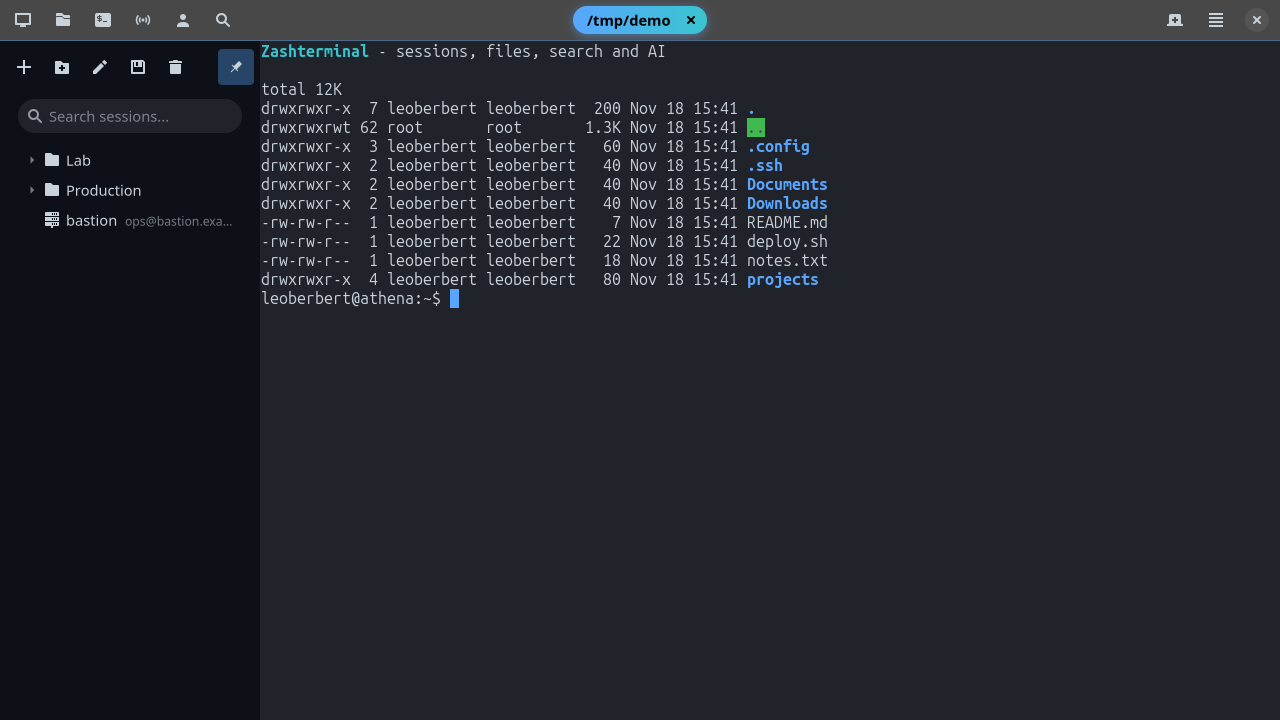
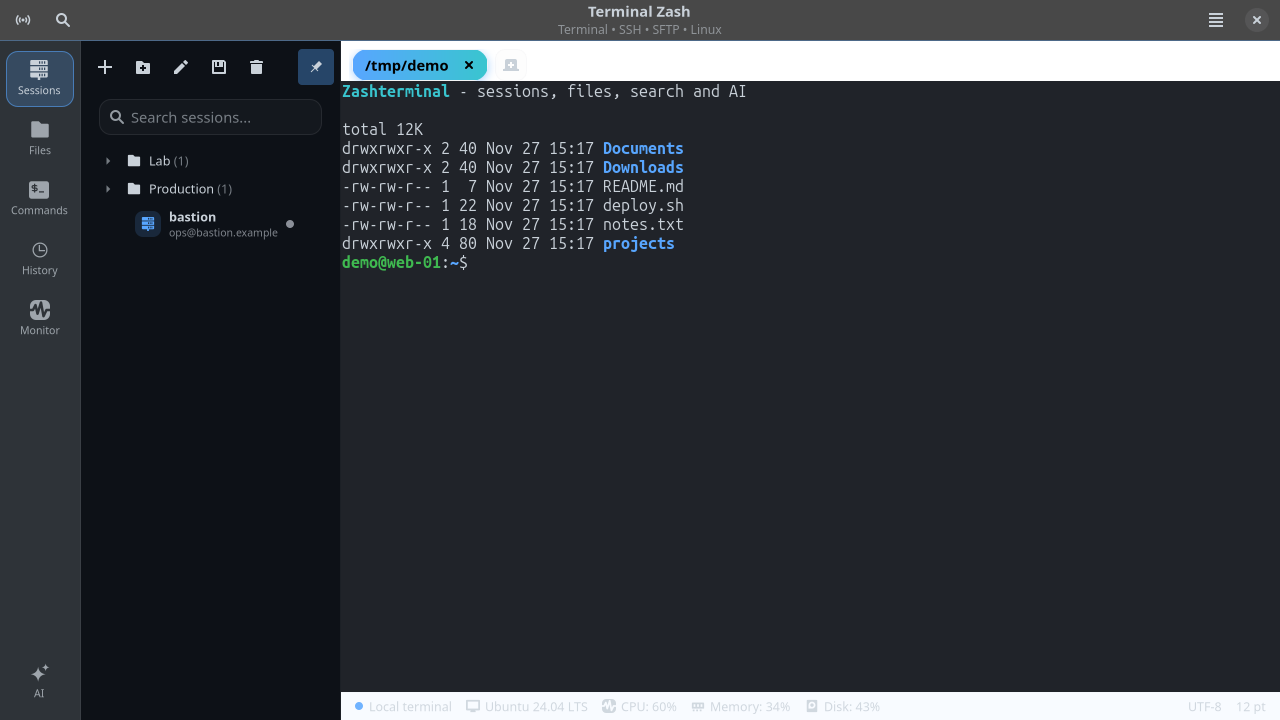
docs: refresh gallery and README for the new visual
- Regenerated docs/gallery; new shots: monitor panel, monitor window, history.
- Gallery uses fictional demo metrics, history and a neutral prompt (no real
  user, hostname, CPU or processes in screenshots).
- README: activity rail, status bar/Monitor, history, AI providers, Esc.
- StatusController stays idle after shutdown (no poller restart, no evaluation).

Changed region(s): [[0.0, 0.0, 1.0, 1.0], [0.25, 0.9472, 1.0, 1.0], [0.0625, 0.0, 0.0938, 0.0306]]

diff --git a/scripts/capture_gallery.py b/scripts/capture_gallery.py
@@ -59,6 +59,30 @@ def capture_widget(widget, path: Path) -> None:
     print(f"wrote {path.name} ({path.stat().st_size} bytes, {width}x{height})")
 
 
+def seed_history(config_dir: Path) -> None:
+    """A few recent connections for the History panel screenshot."""
+    now = time.time()
+    entries = [
+        ("prod-api", "api.prod.example", "ssh", 120, 14),
+        ("SFTP-prod-api", "api.prod.example", "sftp", 3_600, 3),
+        ("lab-db", "db.lab.local", "ssh", 7_200, 6),
+        ("Local", "", "local", 86_400, 22),
+        ("bastion", "bastion.example", "ssh", 3 * 86_400, 2),
+    ]
+    app_dir = config_dir / "zashterminal"
+    app_dir.mkdir(parents=True, exist_ok=True)
+    (app_dir / "connection_history.json").write_text(
+        json.dumps(
+            [
+                {"session_name": n, "host": h, "kind": k, "last_used": now - age, "count": c}
+                for n, h, k, age, c in entries
+            ],
+            indent=2,
+        ),
+        encoding="utf-8",
+    )
+
+
 def seed_sessions(config_dir: Path) -> None:
     payload = {
         "sessions": [
@@ -106,10 +130,74 @@ def seed_sessions(config_dir: Path) -> None:
     (app_dir / "sessions.json").write_text(json.dumps(payload, indent=2), encoding="utf-8")
 
 
+def demo_metrics(step: int):
+    """Deterministic, fictional host metrics for screenshots."""
+    import math
+
+    from zashterminal.utils.system_metrics import DiskInfo, ProcInfo, SystemMetrics
+
+    wave = math.sin(step / 3.0)
+    return SystemMetrics(
+        os_name="Ubuntu 24.04 LTS",
+        kernel="6.8.0-45-generic",
+        arch="x86_64",
+        hostname="web-01",
+        cpu_model="AMD EPYC 7763 64-Core Processor",
+        cores=8,
+        cpu_percent=32 + 18 * wave + (step % 5) * 3,
+        mem_used=int(5.4 * 2**30),
+        mem_total=16 * 2**30,
+        swap_used=0,
+        swap_total=4 * 2**30,
+        disk_percent=43.0,
+        disk_mount="/",
+        uptime_seconds=1_067_220,
+        load=(0.82, 0.64, 0.51),
+        latency_ms=None,
+        net_rx_bps=180_000 + 90_000 * wave,
+        net_tx_bps=40_000 + 25_000 * math.cos(step / 2.0),
+        core_percents=tuple(20 + (i * 9 + step * 7) % 60 for i in range(8)),
+        disks=(
+            DiskInfo("/", 43.0, 100 * 2**30),
+            DiskInfo("/var/lib/docker", 71.0, 200 * 2**30),
+            DiskInfo("/boot", 18.0, 2**30),
+        ),
+        procs_total=214,
+        top_cpu=(
+            ProcInfo("nginx", 12.4, 1.2),
+            ProcInfo("python3", 8.1, 4.6),
+            ProcInfo("postgres", 5.3, 9.8),
+            ProcInfo("node", 2.2, 3.1),
+            ProcInfo("sshd", 0.4, 0.1),
+        ),
+        top_mem=(
+            ProcInfo("postgres", 5.3, 9.8),
+            ProcInfo("python3", 8.1, 4.6),
+            ProcInfo("node", 2.2, 3.1),
+            ProcInfo("redis-server", 0.9, 2.4),
+            ProcInfo("nginx", 12.4, 1.2),
+        ),
+    )
+
+
+def show_demo_metrics(window, terminal) -> None:
+    """Stop live collection and fill the status bar and monitor with demo data."""
+    window.status_controller.shutdown()
+    panel = window.ui_builder.monitor_panel
+    panel.set_terminal(getattr(terminal, "terminal_id", None))
+    panel.set_title("web-01")
+    for step in range(45):
+        metrics = demo_metrics(step)
+        panel.set_metrics(metrics)
+    window.ui_builder.status_bar.set_metrics(metrics)
+
+
 def seed_home(home: Path) -> None:
     for d in ("projects/api", "projects/infra", "Documents", "Downloads", ".ssh"):
         (home / d).mkdir(parents=True, exist_ok=True)
     (home / "README.md").write_text("# demo\n", encoding="utf-8")
+    # Neutral prompt in every shell/pane (no real user or host name in shots)
+    (home / ".bashrc").write_text("PS1='\\[\\e[1;32m\\]demo@web-01\\[\\e[0m\\]:\\[\\e[1;34m\\]\\w\\[\\e[0m\\]$ '\n", encoding="utf-8")
     (home / "deploy.sh").write_text("#!/bin/sh\necho deploy\n", encoding="utf-8")
     (home / "notes.txt").write_text("todo: rotate keys\n", encoding="utf-8")
     (home / "projects/api/main.py").write_text("print('ok')\n", encoding="utf-8")
@@ -127,6 +215,7 @@ def main() -> int:
     with tempfile.TemporaryDirectory(prefix="zash-gallery-") as tmp:
         config_home = Path(tmp)
         seed_sessions(config_home)
+        seed_history(config_home)
         os.environ["XDG_CONFIG_HOME"] = str(config_home)
         os.environ["XDG_CACHE_HOME"] = str(config_home / "cache")
         # Isolated HOME: no real ~/.ssh/config hosts or personal files in shots.
@@ -195,7 +284,7 @@ def main() -> int:
                     (
                         "clear; printf '\\033[1;36mZashterminal\\033[0m "
                         "- sessions, files, search and AI\\n\\n'; "
-                        "ls --color=always -lah\n"
+                        "ls --color=always -lhgo\n"
                     ).encode()
                 )
                 pump(1.0)
@@ -204,6 +293,10 @@ def main() -> int:
                 window.refresh_tree()
             except Exception:
                 pass
+
+            # Demo metrics instead of this machine's (hostname, CPU, processes)
+            show_demo_metrics(window, terminal)
+            pump(0.3)
 
             capture_widget(window, OUT / "01-main-terminal.png")
 
@@ -226,7 +319,7 @@ def main() -> int:
 
 
             if terminal:
-                terminal.feed_child(b"ls --color=always -lah\n")
+                terminal.feed_child(b"ls --color=always -lhgo\n")
                 pump(0.6)
 
             if terminal:
@@ -342,11 +435,28 @@ def main() -> int:
                     print(f"command manager skipped: {exc}")
 
                 try:
-                    window.split_view.set_show_sidebar(True)
+                    window.ui_builder._on_rail_page_toggled("sessions", True)
                     pump(0.3)
                     capture_widget(window, OUT / "13-sessions-sidebar.png")
                 except Exception as exc:
                     print(f"sidebar skipped: {exc}")
+
+                try:
+                    ui = window.ui_builder
+                    ui._on_rail_page_toggled("monitor", True)
+                    pump(0.5)
+                    capture_widget(window, OUT / "15-monitor-panel.png")
+                    ui.monitor_panel._on_expand_clicked(None)
+                    pump(0.8)
+                    monitor_window = ui.monitor_panel._window
+                    capture_widget(monitor_window, OUT / "16-monitor-window.png")
+                    monitor_window.close()
+                    pump(0.2)
+                    ui._on_rail_page_toggled("history", True)
+                    pump(0.4)
+                    capture_widget(window, OUT / "17-history.png")
+                except Exception as exc:
+                    print(f"monitor skipped: {exc}")
             except Exception:
                 traceback.print_exc()
             finally:

diff --git a/src/zashterminal/ui/status_controller.py b/src/zashterminal/ui/status_controller.py
@@ -70,6 +70,7 @@ class StatusController:
         self._sync_poller()
 
     def shutdown(self) -> None:
+        self._shut_down = True
         if self._tick_id:
             GLib.source_remove(self._tick_id)
             self._tick_id = 0
@@ -119,6 +120,8 @@ class StatusController:
         return terminal_id, info.get("type", "none"), live, session
 
     def _evaluate(self) -> None:
+        if getattr(self, "_shut_down", False):
+            return
         terminal = self._active_terminal()
         terminal_id, kind, live, session = self._describe(terminal)
         self._update_terminal_info(terminal, kind)
@@ -250,6 +253,9 @@ class StatusController:
         return self.status_bar.get_visible() or self._detail_wanted()
 
     def _start_poller(self, signature: _Signature, session: Optional[SessionItem]) -> None:
+        if getattr(self, "_shut_down", False):
+            # Panel toggles after shutdown (window closing) must not restart it.
+            return
         _terminal_id, kind, live, = signature
         if not live or not self._metrics_wanted():
             if kind in ("ssh", "local") and not live:

diff --git a/README.md b/README.md
@@ -25,12 +25,13 @@ Zashterminal pairs a VTE terminal with session management, an integrated file ma
 
 | | |
 |---|---|
-| 🔌 **Sessions that stay organized** | Local, SSH and SFTP sessions in folders, with favorites and a live "Connected" list. |
-| ⌨ **Command palette** | `Ctrl+Shift+P` finds sessions, layouts, snippets, actions and preferences. |
+| 🔌 **Sessions that stay organized** | Local, SSH and SFTP sessions in folders, with favorites, connection status and history. |
+| 📊 **Know your host at a glance** | Status bar and Monitor panel with CPU, memory, disks, network, processes, latency — local or over SSH. |
+| ⌨ **Command palette** | `Ctrl+Shift+P` finds sessions, layouts, commands, actions and preferences. |
 | 🪟 **Real multitasking** | Split panes, saved layouts, search across all tabs, broadcast to many panes. |
 | 📁 **Files next to your shell** | Local and remote browser with drag-and-drop and edit-and-upload. |
-| 🎨 **Readable output** | Highlight rules for 50+ commands and 30 color schemes. |
-| 🤖 **AI, only when you ask** | Multi-provider assistant; only text you send leaves your machine. |
+| 🎨 **Readable output** | Highlight rules for 50+ commands and 30 color schemes; the UI follows the terminal theme. |
+| 🤖 **AI, only when you ask** | OpenAI, Anthropic, Gemini, xAI, Mistral, DeepSeek, Groq and more, or your own endpoint; only text you send leaves your machine. |
 | 📥 **Easy migration** | Import SecureCRT, PuTTY, mRemoteNG and OpenSSH configs. |
 
 **Installs:** Arch/Manjaro (AUR), Debian/Ubuntu, Fedora, openSUSE, Gentoo, NixOS. WSL (Ubuntu) is experimental.
@@ -62,17 +63,39 @@ Arch users: `yay -S zashterminal`. Other platforms: see [Installation](#installa
 
 Screenshots live in [`docs/gallery/`](docs/gallery/). Regenerate them with `PYTHONPATH=src python3 scripts/capture_gallery.py`.
 
-### Sessions panel
+### Activity rail and sessions panel
 
-Search at the top, folders, favorites and a "Connected" section. It auto-hides after you open a session (configurable in Preferences).
+The rail on the left switches the side panel: **Sessions**, **Files**, **Commands**, **History**, **Monitor** and **AI**. Sessions are cards with `user@host` and a connection dot, grouped in folders (single-click the arrow to expand, drag several at once to move them). It auto-hides after you open a session (configurable in Preferences). Tabs are named after the session; extra copies become `name(1)`, `name(2)`…
 
 <p align="center">
   <img src="docs/gallery/13-sessions-sidebar.png" alt="Sessions panel" width="880">
 </p>
 
+### Status bar and Monitor
+
+The status bar shows the connection, OS, CPU, memory, disk (of the shell's current directory) and latency of the active tab; click a metric to open the Monitor. Local hosts are read from `/proc`; SSH hosts through the tab's existing connection (no new login, no prompts). Data is kept per tab, so switching tabs is instant.
+
+<p align="center">
+  <img src="docs/gallery/15-monitor-panel.png" alt="Monitor side panel" width="880">
+</p>
+
+Expand the Monitor into its own window for load, swap, per-core CPU, all disks and the top processes by CPU and memory (as `top` shows them). GPU and temperature appear when the host has them.
+
+<p align="center">
+  <img src="docs/gallery/16-monitor-window.png" alt="Expanded monitor window" width="760">
+</p>
+
+### Connection history
+
+Recently used sessions with search, newest first; click to reconnect.
+
+<p align="center">
+  <img src="docs/gallery/17-history.png" alt="Connection history panel" width="880">
+</p>
+
 ### Command palette
 
-`Ctrl+Shift+P`: one search box for sessions, SFTP, layouts, commands, actions and preferences. Type `@` for sessions and layouts only, `>` for actions only.
+`Ctrl+Shift+P`: one search box for sessions, SFTP, layouts, commands, actions and preferences. Type `@` for sessions and layouts only, `>` for actions only. `Esc` closes it (and every other dialog).
 
 <p align="center">
   <img src="docs/gallery/14-command-palette.png" alt="Command palette" width="880">
@@ -144,7 +167,7 @@ SSH/local sessions with folders, auth, post-login commands, forwards, favorite f
 
 ### AI assistant
 
-Optional multi-provider AI (Groq, Gemini, OpenRouter, Ollama / LM Studio). Only text you explicitly send is shared.
+Optional AI chat with **OpenAI, Anthropic (Claude), Google Gemini, xAI (Grok), Mistral, DeepSeek, Groq, Perplexity, Together AI, OpenRouter, local Ollama / LM Studio**, or **Other (custom)**: any OpenAI- or Anthropic-compatible endpoint with your base URL, API key and model. Each provider keeps its own key in the system keyring; "Browse models" lists what the provider offers. Only text you explicitly send is shared.
 
 <p align="center">
   <img src="docs/gallery/08-ai-config.png" alt="AI assistant configuration" width="620">
@@ -172,14 +195,15 @@ Browse, search and customize accelerators; conflicts are flagged.
 
 | Area | What you get |
 |------|----------------|
-| **Sessions** | Local, SSH and SFTP sessions with folders, favorites, restore and layouts |
+| **Sessions** | Local, SSH and SFTP sessions with folders, favorites, history, restore and layouts |
+| **Monitor** | Status bar + Monitor panel/window: CPU, memory, swap, disks, network, processes, GPU, latency (local and SSH) |
 | **Command palette** | `Ctrl+Shift+P` over sessions, layouts, commands, actions and preferences |
 | **Imports** | SecureCRT directory trees, PuTTY `.reg`/`.ini`, mRemoteNG `confCons.xml`, OpenSSH `~/.ssh/config` |
 | **Layouts** | Horizontal/vertical splits; save and restore multi-pane setups |
 | **File manager** | Local and remote browsing, drag-and-drop transfer, remote edit + upload on save |
 | **Search** | In-terminal find with case/regex; **All tabs** scope jumps across panes |
 | **Highlighting** | Output rules for 50+ commands; optional Pygments for `cat` / input |
-| **AI (optional)** | Multi-provider chat, quick prompts, click-to-run snippets (selection only) |
+| **AI (optional)** | 12 providers + custom OpenAI/Anthropic-compatible endpoint, per-provider keys, quick prompts, click-to-run snippets |
 | **Broadcast** | Type once; run across selected tabs/panes |
 | **Appearance** | 30 built-in schemes (default: GitHub Dark), transparency, blur, shortcuts |
 
